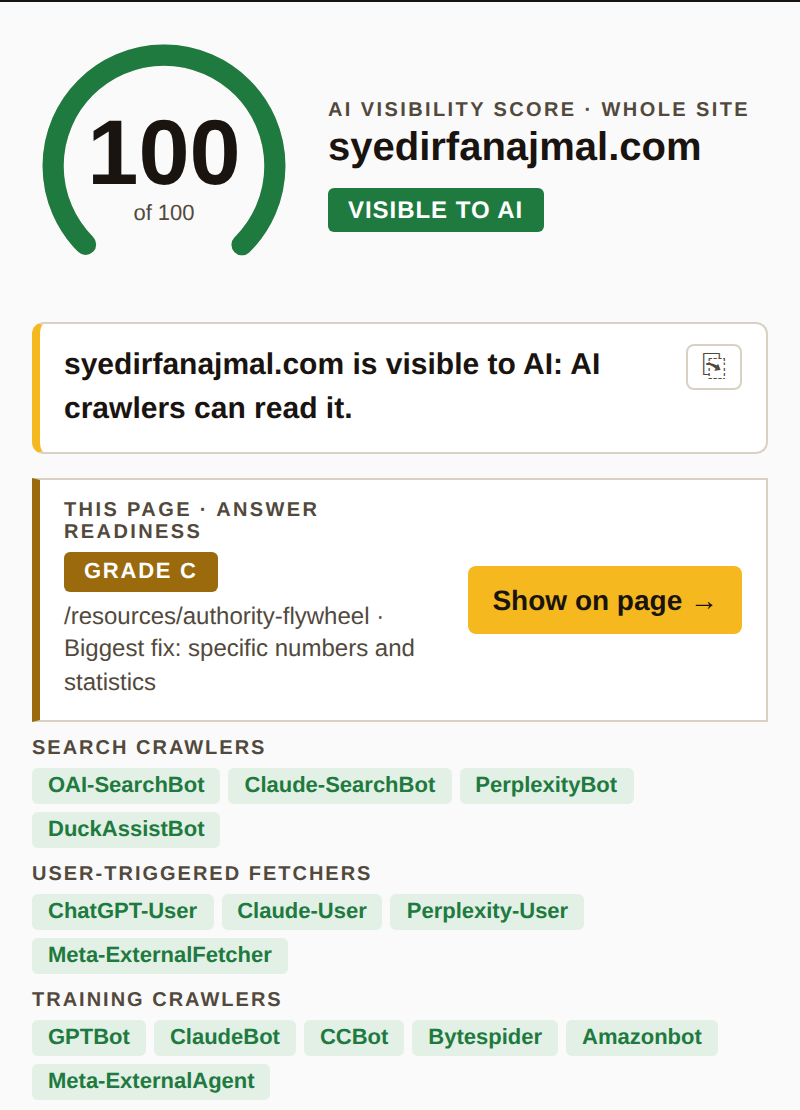
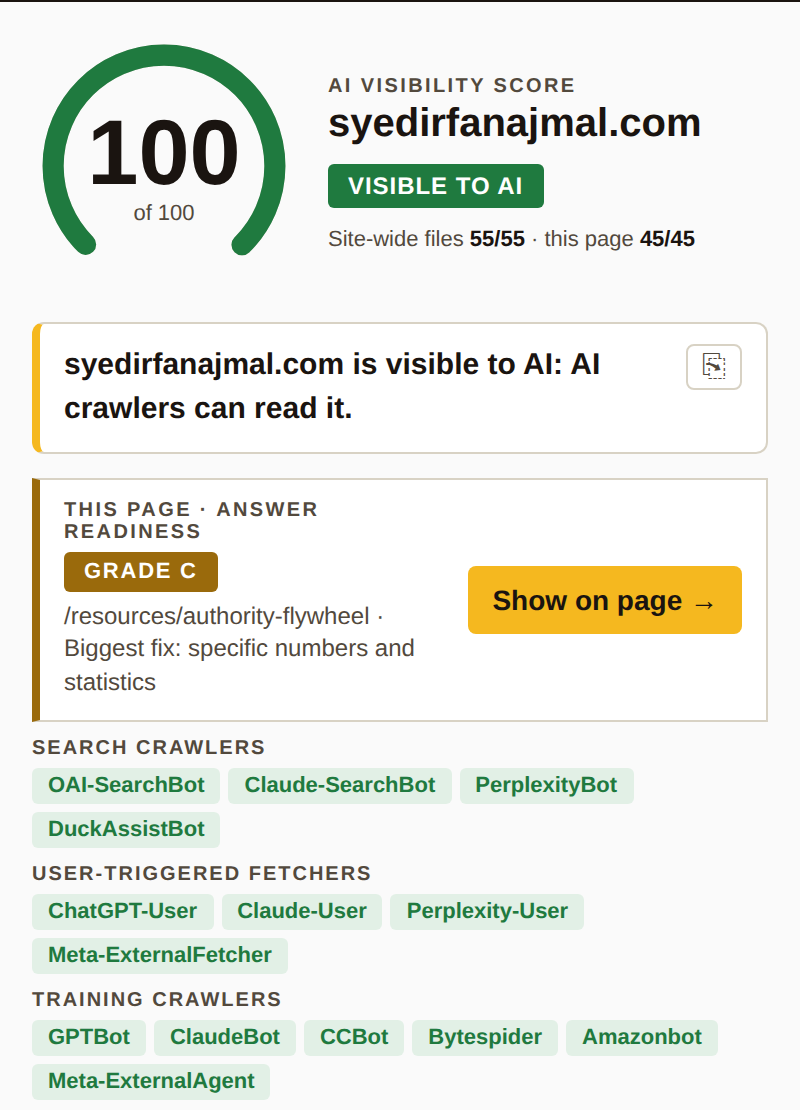
/ai-visibility: score is 55 site-wide + 45 this page, not whole-site; freshness cap copy; new hero shot

Changed region(s): [[0.4062, 0.0613, 0.9375, 0.245]]

diff --git a/src/app/ai-visibility/page.tsx b/src/app/ai-visibility/page.tsx
@@ -158,20 +158,20 @@ const TH = { textAlign: "left" as const, padding: "10px 12px", fontSize: 11, let
 /* Two boxes: the site and the page. Inline SVG so it inherits the page palette. */
 function SitePageDiagram() {
   return (
-    <svg viewBox="0 0 560 150" role="img" aria-label="One click returns a score for the whole site and a grade for the page you are on" style={{ width: "100%", maxWidth: 560, height: "auto", display: "block", margin: "0 auto 22px" }}>
+    <svg viewBox="0 0 560 150" role="img" aria-label="One click returns a visibility score out of 100, with 55 points from site-wide files and 45 from the open page, plus an answer-readiness grade for that page" style={{ width: "100%", maxWidth: 560, height: "auto", display: "block", margin: "0 auto 22px" }}>
       <rect x="1" y="1" width="250" height="148" rx="4" fill="#fff" stroke={RULE} />
-      <text x="16" y="28" fontFamily="var(--font-grot)" fontSize="10" fontWeight="800" letterSpacing="1.5" fill={INK55}>WHOLE SITE · 0 TO 100</text>
+      <text x="16" y="28" fontFamily="var(--font-grot)" fontSize="10" fontWeight="800" letterSpacing="1.5" fill={INK55}>AI VISIBILITY · 0 TO 100</text>
       <text x="16" y="70" fontFamily="var(--font-grot)" fontSize="40" fontWeight="800" fill={INK}>100</text>
-      <text x="16" y="98" fontFamily="var(--font-grot)" fontSize="12" fill={INK70}>robots.txt · JavaScript · llms.txt</text>
-      <text x="16" y="116" fontFamily="var(--font-grot)" fontSize="12" fill={INK70}>metadata · sitemap</text>
-      <text x="16" y="138" fontFamily="var(--font-grot)" fontSize="11" fontWeight="700" fill={GREEN}>Same on every page</text>
+      <text x="16" y="96" fontFamily="var(--font-grot)" fontSize="12" fill={INK70}><tspan fontWeight="700" fill={GREEN}>55 site-wide:</tspan> robots.txt · llms.txt · sitemap</text>
+      <text x="16" y="116" fontFamily="var(--font-grot)" fontSize="12" fill={INK70}><tspan fontWeight="700" fill={AMBER}>45 this page:</tspan> JavaScript · metadata</text>
+      <text x="16" y="138" fontFamily="var(--font-grot)" fontSize="11" fontWeight="700" fill={INK55}>Shown as two numbers in the popup</text>
       <rect x="309" y="1" width="250" height="148" rx="4" fill="#fff" stroke={YEL} strokeWidth="2" />
-      <text x="324" y="28" fontFamily="var(--font-grot)" fontSize="10" fontWeight="800" letterSpacing="1.5" fill={INK55}>THIS PAGE · A TO E</text>
+      <text x="324" y="28" fontFamily="var(--font-grot)" fontSize="10" fontWeight="800" letterSpacing="1.5" fill={INK55}>ANSWER READINESS · A TO E</text>
       <rect x="324" y="44" width="58" height="32" rx="3" fill={AMBER} />
       <text x="353" y="66" textAnchor="middle" fontFamily="var(--font-grot)" fontSize="16" fontWeight="800" fill="#fff">C</text>
       <text x="324" y="98" fontFamily="var(--font-grot)" fontSize="12" fill={INK70}>answer shape · substance · trust</text>
       <text x="324" y="116" fontFamily="var(--font-grot)" fontSize="12" fill={INK70}>ten checks, each with evidence</text>
-      <text x="324" y="138" fontFamily="var(--font-grot)" fontSize="11" fontWeight="700" fill={AMBER}>Changes page by page</text>
+      <text x="324" y="138" fontFamily="var(--font-grot)" fontSize="11" fontWeight="700" fill={AMBER}>This page only, changes page by page</text>
       <path d="M255 75 H305" stroke={INK55} strokeWidth="1.5" strokeDasharray="3 3" />
       <text x="280" y="66" textAnchor="middle" fontFamily="var(--font-grot)" fontSize="10" fontWeight="700" fill={INK55}>one click</text>
     </svg>
@@ -209,9 +209,9 @@ export default function AiVisibilityPage() {
           </div>
           <div className="aiv-hero-shot">
             {/* eslint-disable-next-line @next/next/no-img-element */}
-            <img src="/ai-visibility/score-popup.png" width={800} height={1110} alt="The extension popup: a 100 out of 100 site score for syedirfanajmal.com, a grade C for the page, and a Show on page button" loading="eager" />
+            <img src="/ai-visibility/score-popup.png" width={800} height={1110} alt="The extension popup: an AI visibility score of 100 for syedirfanajmal.com, split 55 site-wide and 45 this page, a grade C for the page, and a Show on page button" loading="eager" />
             <p className="aiv-caption">
-              <strong style={{ color: INK }}>Sample.</strong> The extension run on this site&rsquo;s own Authority Flywheel page, 28 Aug 2026: the site scores 100, that page grades C. Yours will differ.
+              <strong style={{ color: INK }}>Sample.</strong> The extension run on this site&rsquo;s own Authority Flywheel page, 28 Aug 2026: visibility 100 (site-wide files 55 of 55, that page 45 of 45), answer readiness grade C. Yours will differ.
             </p>
           </div>
         </div>
@@ -258,19 +258,22 @@ export default function AiVisibilityPage() {
       <section id="how" style={{ background: PAPER, padding: "44px 20px" }}>
         <div style={{ maxWidth: 880, margin: "0 auto" }}>
           <Eyebrow>Two results, one click</Eyebrow>
-          <H2 anchor="how">A score for the site, a grade for the page</H2>
+          <H2 anchor="how">A visibility score, split site and page. A grade for the page.</H2>
           <Lede>
-            Visibility is a property of the whole site: robots.txt, llms.txt and the
-            sitemap are the same on every page. Whether AI would quote you is a
-            property of one page. Merging them would punish a homepage for not being
-            an article, so the extension reports them separately.
+            Some visibility checks belong to the whole site: robots.txt, llms.txt and
+            the sitemap are the same on every page, and they carry 55 of the 100
+            points. The other 45 are measured on the page you have open, because
+            JavaScript rendering and metadata differ page by page. The popup shows
+            both numbers, so two pages of one site are never mistaken for two
+            verdicts on the site. Whether AI would quote you is a third question,
+            about one page only, so it gets its own grade instead of being folded in.
           </Lede>
           <SitePageDiagram />
           <div style={{ display: "grid", gridTemplateColumns: "repeat(auto-fit, minmax(200px, 1fr))", gap: 12 }}>
             {SITE_PARTS.map((m) => (
               <div key={m.k} style={{ border: `1px solid ${RULE}`, background: "#fff", padding: "16px 16px 14px", display: "flex", flexDirection: "column" }}>
                 <div style={{ fontFamily: GROT, fontWeight: 800, fontSize: 13, color: INK }}>{m.k}</div>
-                <div style={{ fontFamily: GROT, fontSize: 11, fontWeight: 700, color: INK55, margin: "2px 0 8px" }}>{m.pts} of 100 site points</div>
+                <div style={{ fontFamily: GROT, fontSize: 11, fontWeight: 700, color: INK55, margin: "2px 0 8px" }}>{m.pts} of 100 · {m.scope}</div>
                 <div style={{ fontFamily: GROT, fontSize: 13, color: INK70, lineHeight: 1.55 }}>{m.d}</div>
                 <div style={{ fontFamily: GROT, fontSize: 12, color: INK55, lineHeight: 1.5, marginTop: 8, paddingTop: 8, borderTop: `1px dashed ${RULE}`, flex: 1 }}>
                   <strong style={{ color: INK }}>Why this weight:</strong> {m.why} <Src ids={m.src} />

diff --git a/src/app/ai-visibility/evidence.ts b/src/app/ai-visibility/evidence.ts
@@ -27,13 +27,13 @@ export const SOURCES: Source[] = [
   { id: 18, who: "Aggarwal et al., KDD 2024", what: "GEO: Generative Engine Optimization (lab benchmark; later replication found most methods ineffective)", url: "https://arxiv.org/pdf/2311.09735" },
 ];
 
-export type SitePart = { k: string; pts: number; d: string; why: string; src: number[] };
+export type SitePart = { k: string; pts: number; scope: string; d: string; why: string; src: number[] };
 
 export const SITE_PARTS: SitePart[] = [
-  { k: "Crawler access", pts: 40, d: "Does robots.txt let the 16 AI crawlers in, or tell them to stay out? Search and user-triggered bots weigh more than training bots, because blocking those is what removes you from answers.", why: "OpenAI and Anthropic each document which of their bots feed search answers and which only train models; the split is theirs, not ours.", src: [16, 17] },
-  { k: "JavaScript visibility", pts: 30, d: "AI crawlers read the raw HTML, before scripts run. We compare the raw copy with the finished page and report what share of your words is invisible ink.", why: "Google's own guidance: if a page cannot be indexed with a snippet, it cannot appear in AI features.", src: [4] },
-  { k: "llms.txt", pts: 5, d: "A menu card for AI and agent readers. Checked for presence and format.", why: "Deliberately only 5 points. Across 137,000 domains, 97% of llms.txt files were never requested by any bot, and no study has found a citation correlation. Kept because OpenAI and Anthropic recommend it for agent workflows.", src: [12] },
-  { k: "Metadata and sitemap", pts: 25, d: "Title, description, canonical, Open Graph, structured data and a working sitemap: the filing system robots rely on.", why: "Indexability basics. Structured data is counted here as a filing aid, not as an AI-citation lever (see what we refuse to score).", src: [4] },
+  { k: "Crawler access", pts: 40, scope: "site-wide", d: "Does robots.txt let the 16 AI crawlers in, or tell them to stay out? Search and user-triggered bots weigh more than training bots, because blocking those is what removes you from answers.", why: "OpenAI and Anthropic each document which of their bots feed search answers and which only train models; the split is theirs, not ours.", src: [16, 17] },
+  { k: "JavaScript visibility", pts: 30, scope: "this page", d: "AI crawlers read the raw HTML, before scripts run. We compare the raw copy of the open page with the finished page and report what share of its words is invisible ink. Measured per page: a script-heavy product page and a static article on the same site score differently.", why: "Google's own guidance: if a page cannot be indexed with a snippet, it cannot appear in AI features.", src: [4] },
+  { k: "llms.txt", pts: 5, scope: "site-wide", d: "A menu card for AI and agent readers. Checked for presence and format.", why: "Deliberately only 5 points. Across 137,000 domains, 97% of llms.txt files were never requested by any bot, and no study has found a citation correlation. Kept because OpenAI and Anthropic recommend it for agent workflows.", src: [12] },
+  { k: "Metadata and sitemap", pts: 25, scope: "15 this page, 10 site-wide", d: "Title, description, canonical, Open Graph and structured data are read from the open page (15 points). The sitemap is one file for the whole site (10 points).", why: "Indexability basics. Structured data is counted here as a filing aid, not as an AI-citation lever (see what we refuse to score).", src: [4] },
 ];
 
 export type Check = { code: string; label: string; pts: number; looks: string; finding: string; src: number[]; tag: "evidence" | "consensus" };
@@ -45,7 +45,7 @@ export const CHECKS: Check[] = [
   { code: "ax", label: "Lists, tables and definition sentences", pts: 12, looks: "Lists, tables and 'X is a...' sentences, about one per 400 words.", finding: "Pages with lists, tables or headings were matched to AI answers 91% of the time; prose-only pages 39%.", src: [7, 11], tag: "evidence" },
   { code: "an", label: "Specific numbers and statistics", pts: 12, looks: "Data points inside real sentences, per 1,000 words. Label numbers in graphics do not count.", finding: "Pages with 19 or more data points average 5.4 citations; pages with few average 2.8.", src: [2], tag: "evidence" },
   { code: "aq", label: "Quotes attributed to a named person", pts: 8, looks: "Quoted spans of four words or more with a name and a cue such as 'said' or a job title nearby.", finding: "Pages with expert quotes average 4.1 citations; pages without, 2.4.", src: [2], tag: "evidence" },
-  { code: "ad", label: "A visible, recent updated date", pts: 10, looks: "The newest date on the page or in its schema; full marks within 3 months. A schema date newer than the visible date is flagged.", finding: "Content updated within three months averages 6.0 citations vs 3.6. AI-cited content is 25.7% fresher than organic results, except on Google AI Overviews, where freshness is neutral.", src: [2, 9], tag: "evidence" },
+  { code: "ad", label: "A visible, recent updated date", pts: 10, looks: "The newest date on the page or in its schema; full marks within 3 months. A date that lives only in the schema, invisible to readers, earns at most 6 of 10. A schema date newer than the visible date, or one that equals the scan date, is flagged.", finding: "Content updated within three months averages 6.0 citations vs 3.6. AI-cited content is 25.7% fresher than organic results, except on Google AI Overviews, where freshness is neutral.", src: [2, 9], tag: "evidence" },
   { code: "au", label: "A named author readers can see", pts: 12, looks: "A visible byline, plus a credential line and a profile link. An author only in schema gets a quarter of the points.", finding: "Visible expertise and authorship signals were 30.6% more common on cited pages than on uncited ones, the second-largest text difference in the study.", src: [8], tag: "evidence" },
   { code: "ae", label: "Named people, companies, products and places", pts: 8, looks: "Share of capitalised names among all words.", finding: "Cited passages run about 20% proper nouns; ordinary text runs 5 to 8%.", src: [6], tag: "evidence" },
   { code: "ah", label: "No sales language", pts: 5, looks: "Share of sentences with promotional phrases ('game-changing', 'unlock', 'cutting-edge') or exclamation marks.", finding: "Promotional tone was the only text parameter negatively associated with being cited: 26% less common on cited pages.", src: [8], tag: "evidence" },
